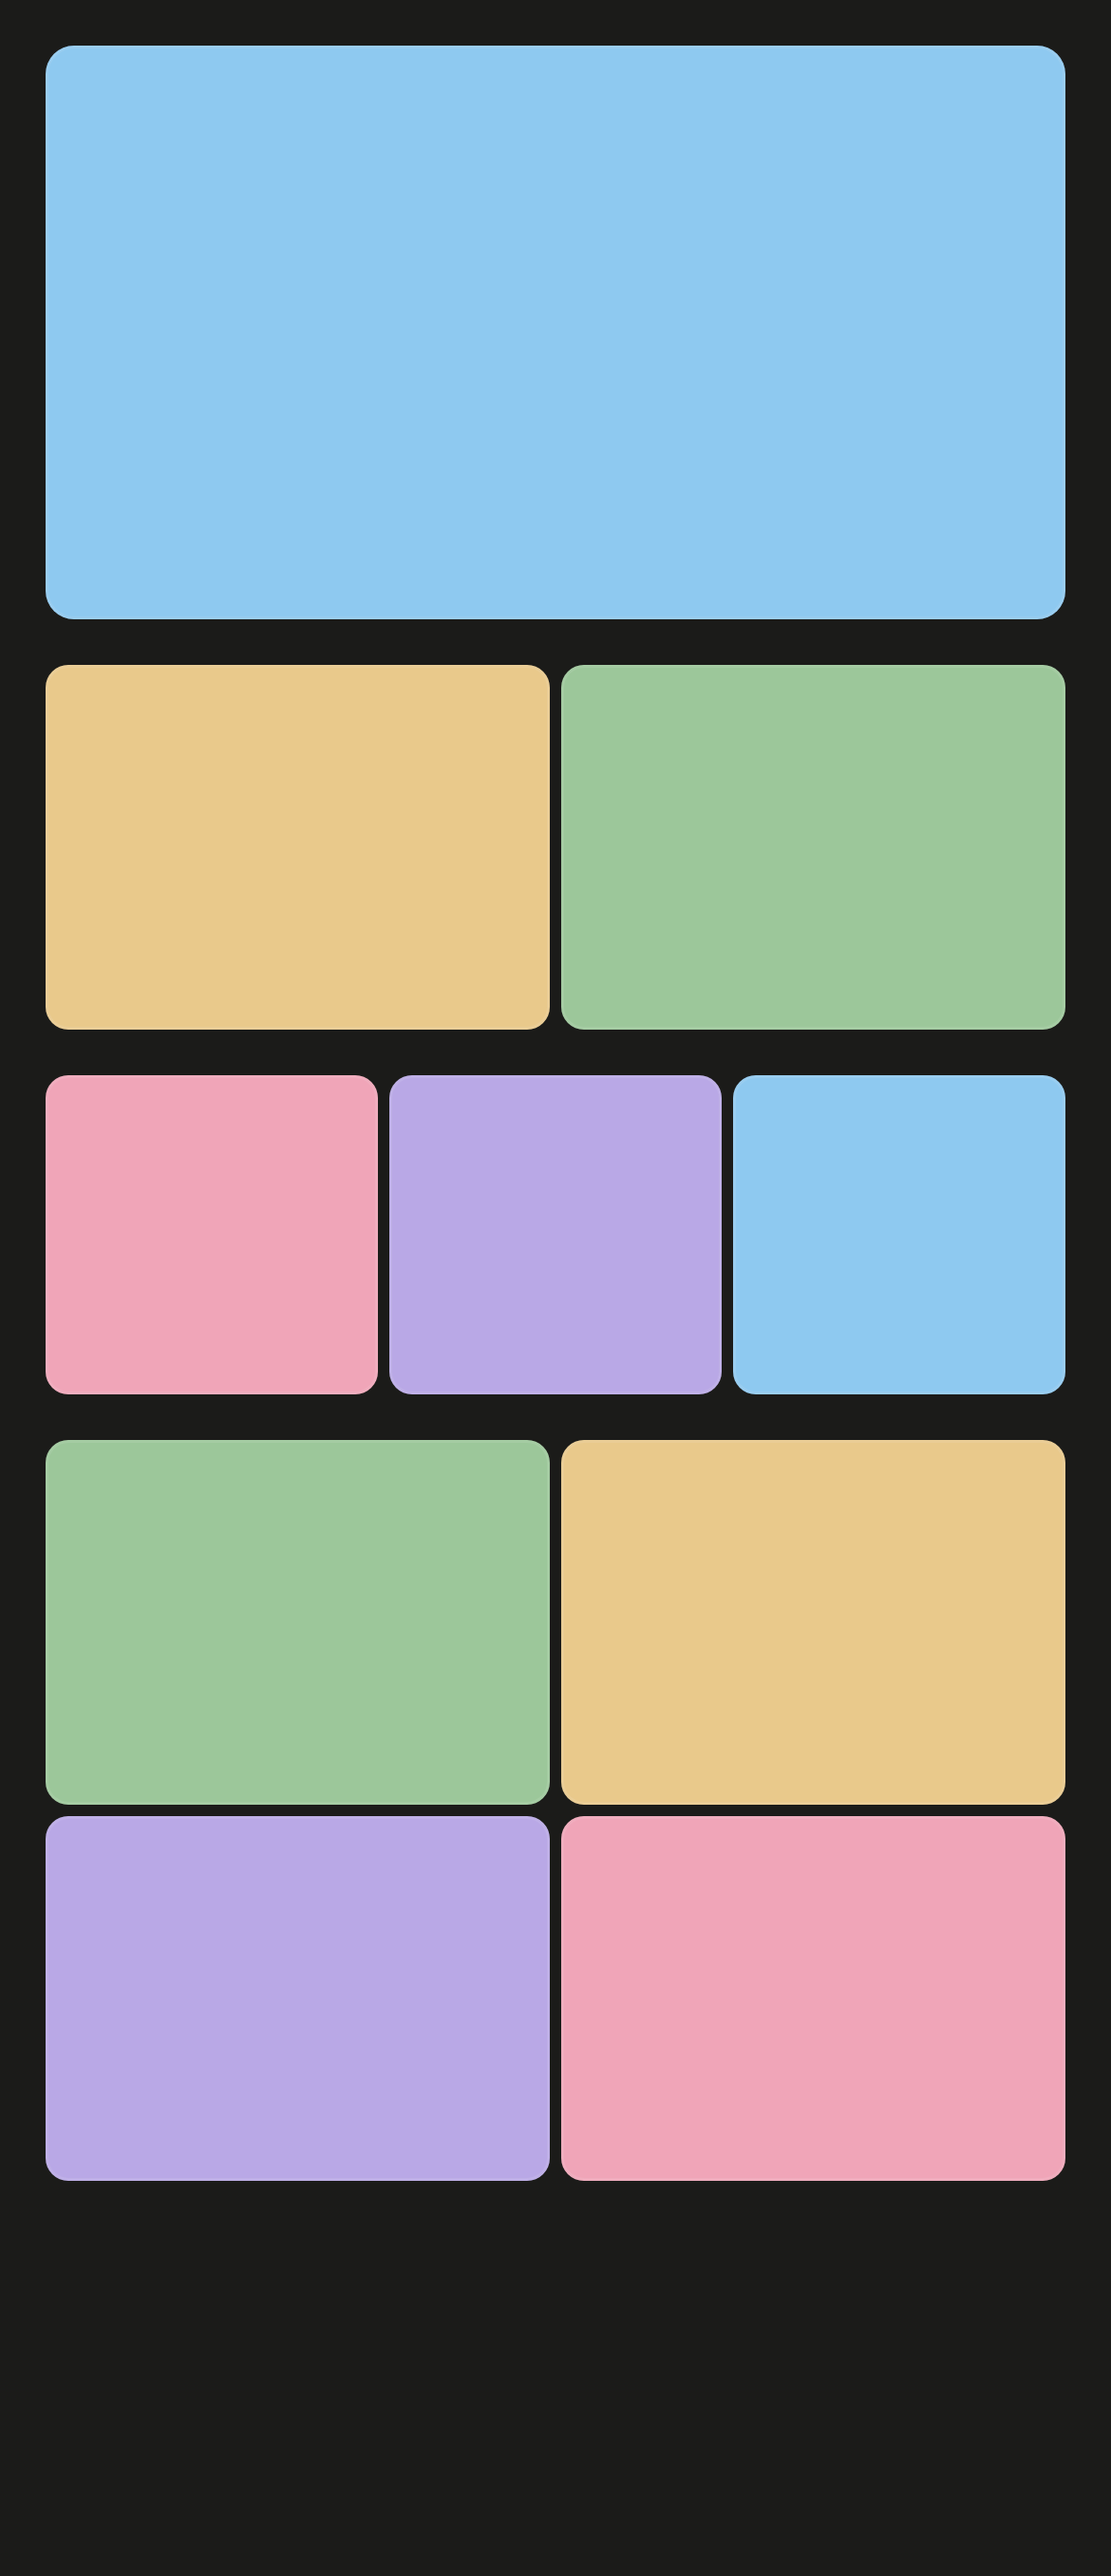
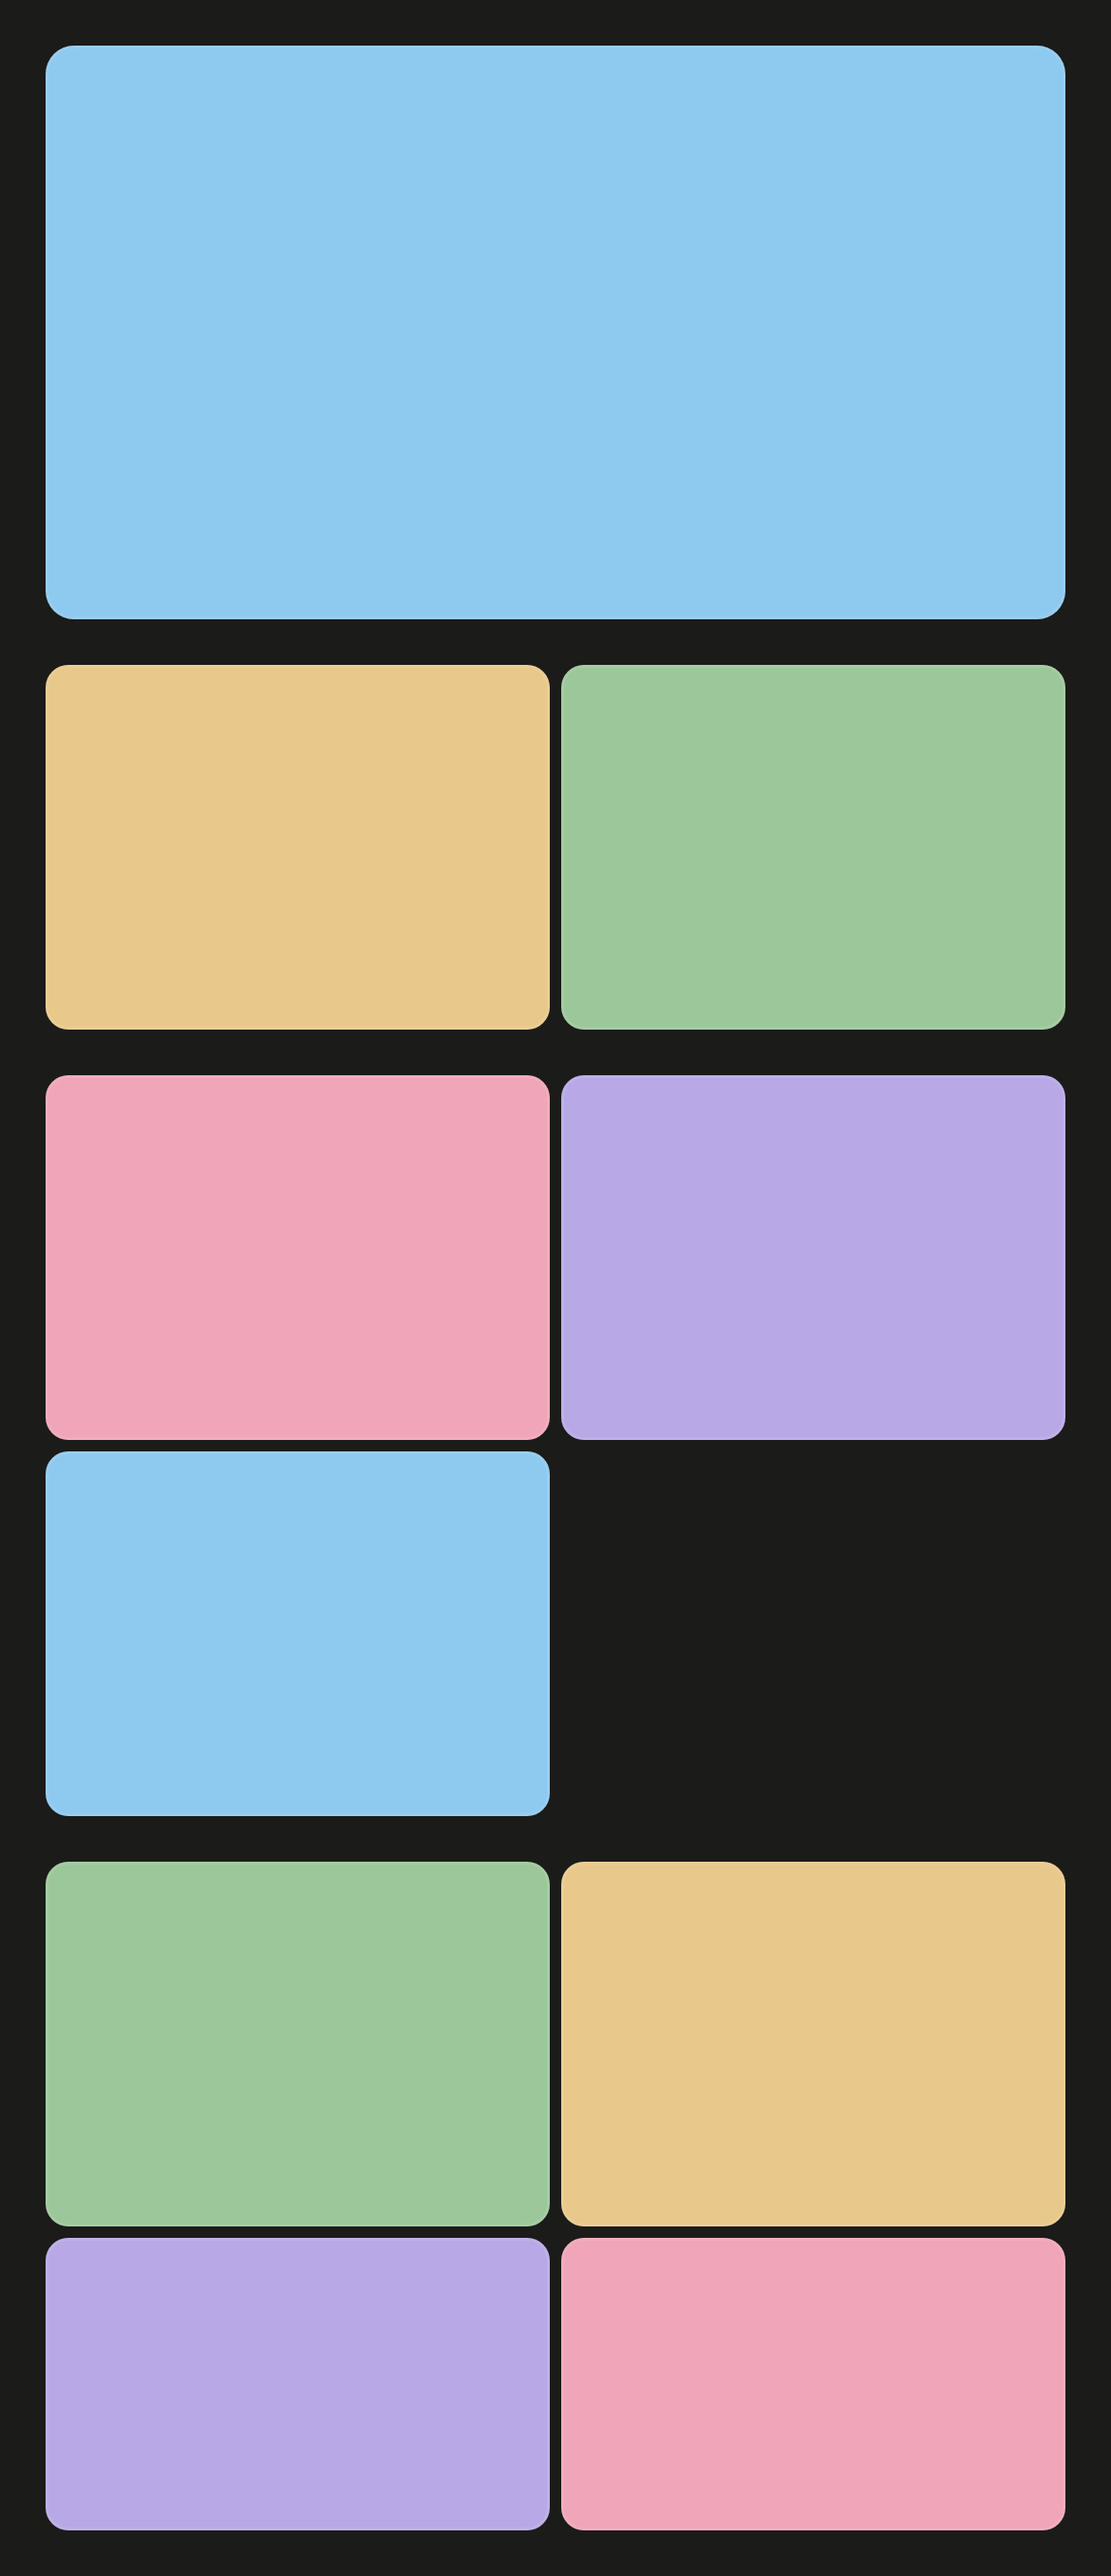
test(ui): gallery rows of two — goldens and captions

diff --git a/compose/designsystem/src/desktopTest/kotlin/build/raft/designsystem/screenshot/DisplayComponentScreenshotTest.kt b/compose/designsystem/src/desktopTest/kotlin/build/raft/designsystem/screenshot/DisplayComponentScreenshotTest.kt
@@ -1349,12 +1349,12 @@ class DisplayComponentScreenshotTest {
                     RaftMessageImageGallery(listOf(RaftMessageImageDimensions(300, 1000)), Modifier.width(80.dp)) { FakeImage(9f / 16f, it.fit) }
                 }
                 RaftMessageImageGallery(listOf(RaftMessageImageDimensions())) { FakeImage(9f / 19f, it.fit) }
-                Caption("At its full 360dp: two (144dp rows), then three (128dp; the third wraps)")
+                Caption("At its full 360dp: two, then three (rows of two, 144dp; the third sits alone)")
                 RaftMessageImageGallery(List(2) { RaftMessageImageDimensions(800, 600) }) { FakeImage(4f / 3f, it.fit) }
                 RaftMessageImageGallery(listOf(RaftMessageImageDimensions(800, 600), RaftMessageImageDimensions(300, 1000), RaftMessageImageDimensions(800, 600))) {
                     FakeImage(if (it.index == 1) 0.3f else 4f / 3f, it.fit)
                 }
-                Caption("Narrower, 300dp: two (128dp rows), then three (112dp)")
+                Caption("Narrower, 300dp: two, then three (rows of two, 128dp)")
                 RaftMessageImageGallery(List(2) { RaftMessageImageDimensions(800, 600) }, Modifier.width(300.dp)) { FakeImage(4f / 3f, it.fit) }
                 RaftMessageImageGallery(
                     listOf(RaftMessageImageDimensions(800, 600), RaftMessageImageDimensions(300, 1000), RaftMessageImageDimensions(800, 600)),
